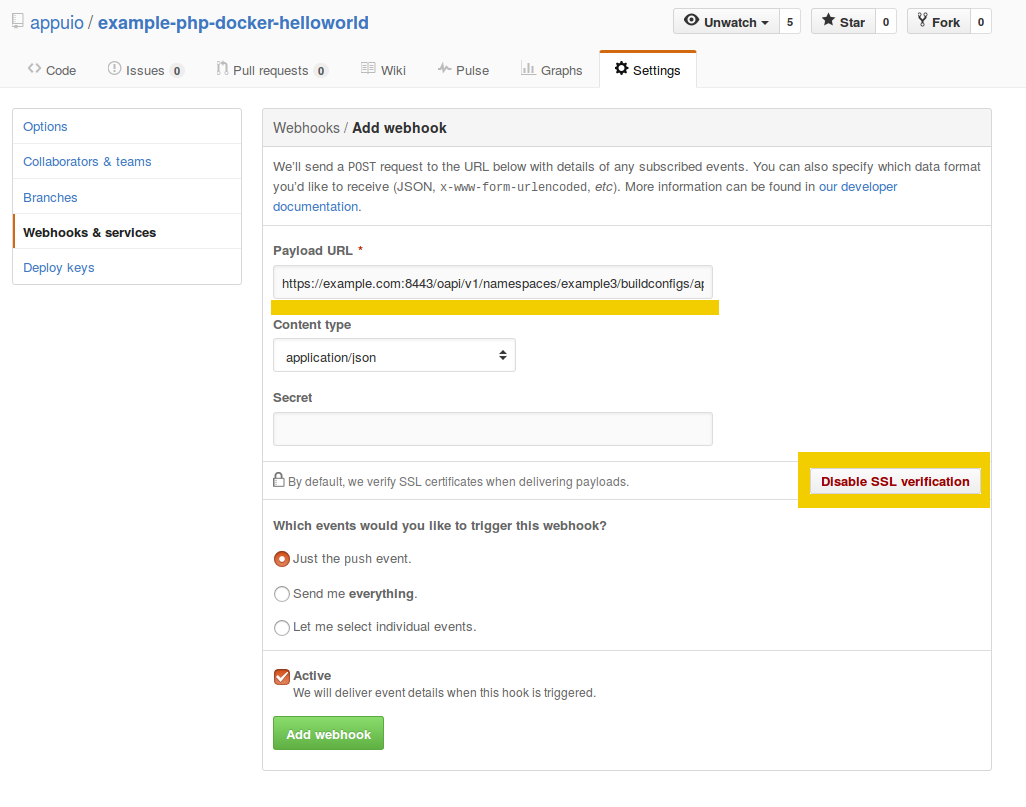
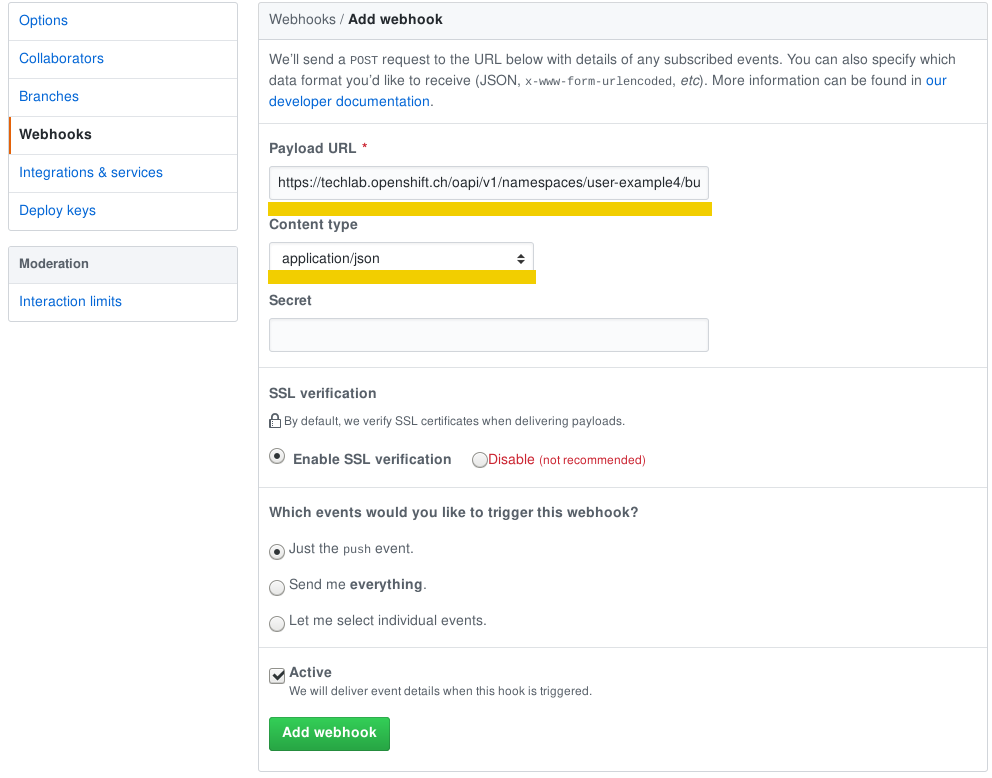
Update GitHub Webhook creation (#30)
* Highlight content type

* Enable SSL verification

Changed region(s): [[0.0, 0.0, 0.9688, 0.9871], [0.75, 0.5553, 0.9688, 0.6478], [0.4688, 0.4319, 0.5, 0.4627]]

diff --git a/labs/09_dockerbuild_webhook.md b/labs/09_dockerbuild_webhook.md
@@ -85,7 +85,7 @@ Klicken Sie auf Webhooks & services:
 Fügen Sie einen Webhook hinzu:
 ![Github Webhook](../images/lab_09_webhook_github3.png)
 
-Fügen Sie die entsprechende GitHub Webhook URL aus Ihrem OpenShift Projekt ein und "disablen" Sie die SSL verification. Auf der Lab Plattform verfügen wir nur über self-signed Zertifikate.
+Fügen Sie die entsprechende GitHub Webhook URL aus Ihrem OpenShift Projekt ein:
 ![Github Webhook](../images/lab_09_webhook_github4.png)
 
 Ab jetzt triggern alle Pushes auf Ihrem GitHub Repository einen Build und deployen anschliessend die Code-Änderungen direkt auf die OpenShift-Plattform.
